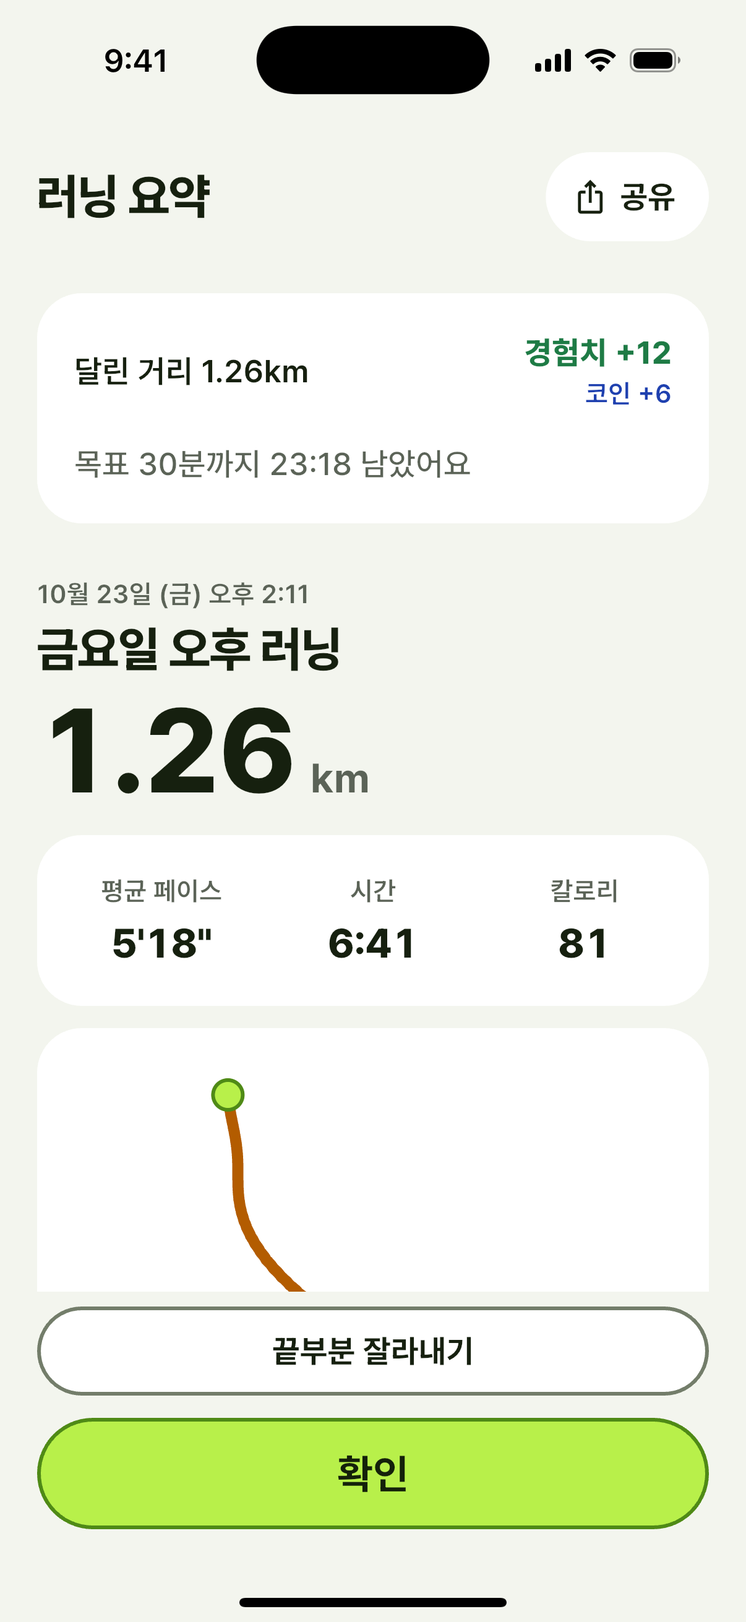
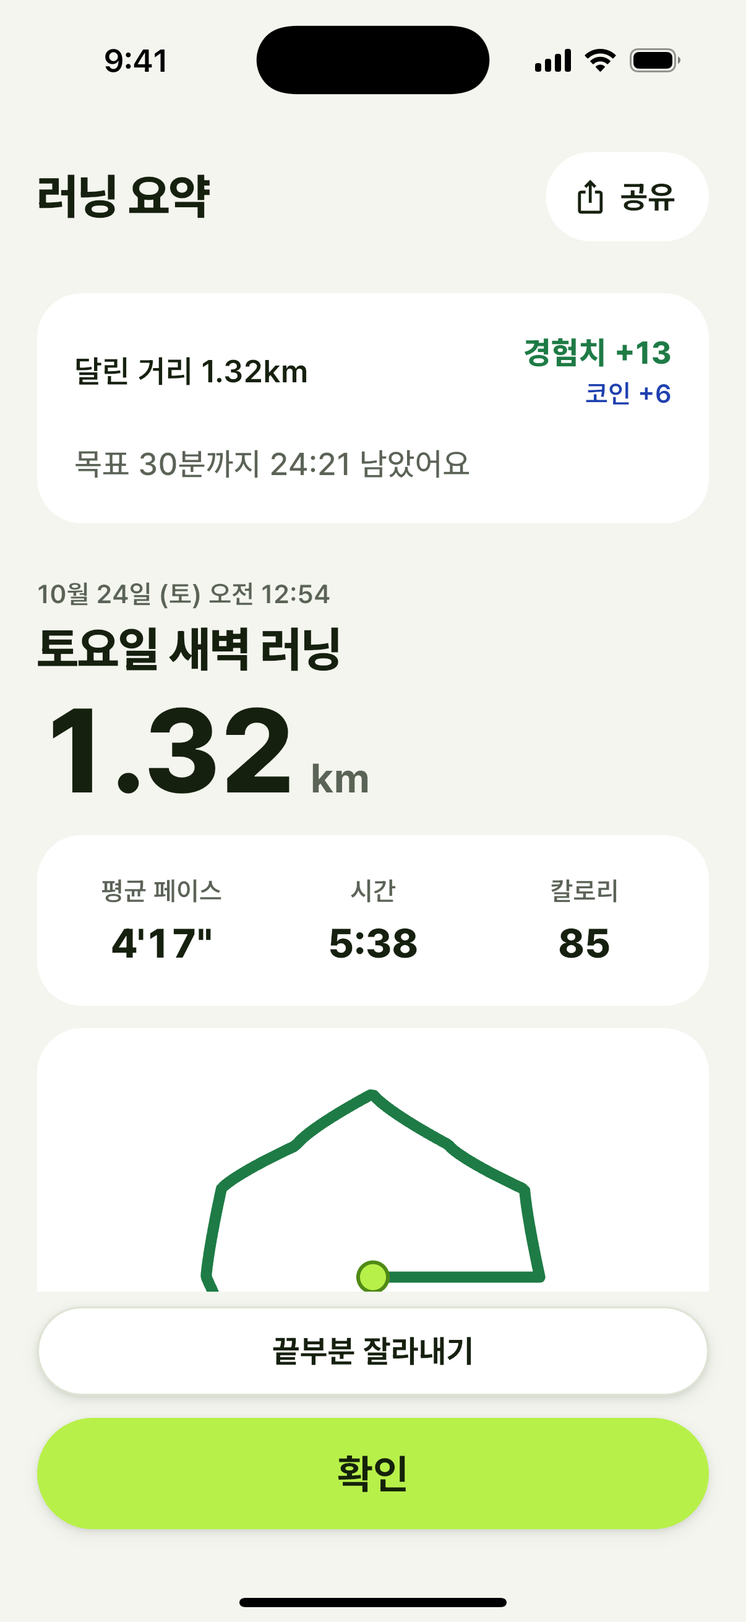
docs: 화면설계서 iPhone 컷·사본·설명 갱신, 와이어프레임 대응표, 촬영 도구 README (페이즈 8 작업 3 완료)

diff --git a/design/screens/index.html b/design/screens/index.html
@@ -412,7 +412,7 @@ dialog.zoom button { min-height: 44px; min-width: 44px; border-radius: 999px; bo
   <div class="wrap">
     <div class="cover-grid">
       <div>
-        <div class="eyebrow"><span class="tag">화면설계서</span><span class="tag">v0.3.0 베타</span><span class="tag">2026-10-23 7판</span></div>
+        <div class="eyebrow"><span class="tag">화면설계서</span><span class="tag">v0.4.0 베타</span><span class="tag">2026-10-24 8판</span></div>
         <h1>런마고치<br><span class="hl">화면설계서</span></h1>
         <p class="lede">달린 거리만큼 도트 친구가 자라는 러닝 앱. 실제 앱을 에뮬레이터에서 돌려 찍은 화면으로 모든 화면과 상태, 화면 사이 이동, 요소별 규칙을 한 장에 정리했어요.</p>
         <dl class="meta">
@@ -430,7 +430,7 @@ dialog.zoom button { min-height: 44px; min-width: 44px; border-radius: 999px; bo
       </div>
       <div class="trio" aria-label="대표 화면 세 장">
         <figure><img class="shot" src="web/06-home.png" alt="홈 화면: 레벨 9 아바타와 오늘 목표 3km, 시작 버튼" width="390" height="866"><figcaption>홈</figcaption></figure>
-        <figure><img class="shot" src="web/11-run.png" alt="러닝 중 화면: 2.03km, 평균 페이스 5분 8초" width="390" height="866"><figcaption>러닝 중</figcaption></figure>
+        <figure><img class="shot" src="web/11-run.png" alt="러닝 중 화면: 0.27km, 평균 페이스 3분 34초" width="390" height="866"><figcaption>러닝 중</figcaption></figure>
         <figure><img class="shot" src="web/16-summary-levelup.png" alt="러닝 요약 화면: 레벨 업, Lv.9에서 Lv.10" width="390" height="866"><figcaption>러닝 요약</figcaption></figure>
       </div>
     </div>
@@ -463,7 +463,7 @@ dialog.zoom button { min-height: 44px; min-width: 44px; border-radius: 999px; bo
       <div class="part-head">
         <span class="part-no">1</span>
         <h2>전체 화면 보드</h2>
-        <p>사용자가 만나는 순서로 묶었어요. Android 16(Pixel 7 에뮬레이터, 라이트)에서 찍었고, 그림을 누르면 크게 봐요. 관문 3 고칠 점(공원 산책로 무대·홈 목표 시트·화면 모드·탈것과 신호 끊김 안내)을 반영해 2026-10-23 에 다시 찍었어요. 아이템 그림은 아직 검토 전이라 캐릭터는 아이템 없이 기본 3종(병아리·젤리·도토리)을 흐름 묶음마다 나눠 찍었어요.</p>
+        <p>사용자가 만나는 순서로 묶었어요. Android 16(Pixel 7 에뮬레이터, 라이트)에서 찍었고, 그림을 누르면 크게 봐요. 관문 3 고칠 점(공원 산책로 무대·홈 목표 시트·화면 모드·탈것과 신호 끊김 안내)을 반영해 2026-10-24 에 처음부터 다시 찍었어요(버튼 그림자·몸집 고정·경로 세 단계색·알림 작은 아이콘 반영). 아이템 그림은 아직 검토 전이라 캐릭터는 아이템 없이 기본 3종(병아리·젤리·도토리)을 흐름 묶음마다 나눠 찍었어요.</p>
       </div>
       <div class="board" id="board-light"></div>
       <div class="bands">
@@ -617,23 +617,21 @@ dialog.zoom button { min-height: 44px; min-width: 44px; border-radius: 999px; bo
         <article>
           <h3>환경과 예시 데이터</h3>
           <ul>
-            <li>Android: AVD <code>runmagochi</code>(Pixel 7, Android 16 · API 36), 릴리스 빌드 0.3.0 베타. 상태바는 시스템 데모 모드로 9:41 고정. 글꼴은 앱에 번들한 서브셋(Runmagochi Sans)을 이 페이지에도 씀.</li>
-            <li>iPhone: iPhone 16 Pro 시뮬레이터(iOS 18.6), 디버그 빌드에서 디버그 띠를 끄고 찍음.</li>
-            <li>예시 데이터: 2025-11 ~ 2026-10 러닝 33회를 백업 6판 형식으로 만들어 설정 › 가져오기로 넣음(앱은 7판까지 읽음). 게임 규칙대로 경험치·코인·배지를 맞춰 Lv.9, 배지 9개, 코인 315 에서 시작.</li>
-            <li>2026-10-23 다시 찍은 러닝(작업 27 뒤 빌드): 젤리로 목표 3km, 45초 멈춤(자동 일시정지) → 초속 7m 40초(탈것 의심, 그 구간 빠짐) → 3.22km(Lv.9→10, 배지 목표 달성 30번). 2026-10-23 저녁(작업 29 뒤 빌드) 다시 찍은 것: 요약·잘라내기·공유(16·18·19)·기록 상세(25)·다크 요약(43)과 알림 36·38·39b~39e. 요약 미달(17)과 알림 39b·39d·39e 는 목표 7km 러닝을 45초 멈춤 → 초속 7m 탈것 → 위치 서비스 끄기로 자동 종료시켜 찍음(1.30km). 기록 상세 25 는 예시 백업의 10-21 러닝, 다크 요약 43 은 위 3.22km 러닝을 기록에서 열어 찍음. 위치 서비스 꺼짐(13c·39c)은 도토리로 짧게 따로. 모두 가상 GPS(여의도 둘레 고리 경로).
-            <li>2026-10-23 밤(작업 30 뒤 빌드) 라이트 경로색을 다시 찍음: 요약 긴 화면(16 긴 화면)·공유 카드(19)·기록 상세(25) 는 도토리 말랑이로 목표 3km, 1km 마다 초속 3·4·5.5m(천천히·보통·빠르게 세 단계가 다 나오게) 3.04km 가상 GPS 러닝이에요. 그래서 16 의 긴 화면 아래쪽 숫자는 맨 위 레벨 업 컷(3.22km)과 달라요. 17·18 은 한 색 경로라 그대로, 다크 화면·알림·iOS 는 다시 찍지 않았어요.</li>
-            <li>캐릭터: 아이템 없이 기본 3종을 종류·이름만 다른 예시 백업 3개(삐약이·말랑이·토리)로 나눠 찍음. 병아리 = 홈·목표 시트·아바타·다크 러닝, 젤리 = 러닝 중·일시정지·요약·공유·iPhone 아바타, 도토리 = 첫 실행·상점·위치 꺼짐·다크 홈·아바타·상점·iPhone 홈·러닝.</li>
-            <li>첫 실행·첫날 홈은 앱 데이터를 지운 상태(10-23, 캐릭터는 무작위로 꼬마 도토리가 나올 때까지 다시), 빈 상태(기록·코인 내역)·권한 안내는 10-22 새로 설치한 상태에서 찍음. 무대가 없는 화면(기록·업적·코인 내역·권한 안내)은 10-22 촬영을 그대로 둠.</li>
+            <li>Android: AVD <code>runmagochi</code>(Pixel 7, Android 16 · API 36), 릴리스 빌드 0.4.0(디버그 키 서명). 상태바는 시스템 데모 모드로 9:41 고정. 글꼴은 앱에 번들한 서브셋(Runmagochi Sans)을 이 페이지에도 씀. 종료 예고 알림(39)만 자동 종료 기준을 줄인 디버그 빌드에서 찍음(릴리스는 기준을 못 줄여요).</li>
+            <li>iPhone: iPhone 16 Pro 시뮬레이터(iOS 18.6), 디버그 빌드에서 Dart VM 서비스로 탭을 넣고 디버그 띠를 끄고 찍음. 예시 데이터는 Android 앱 DB 파일을 시뮬레이터 앱 폴더에 복사했어요. 52 는 <code>simctl location start</code> 로 고리 경로를 시속 약 14km 로 보냄.</li>
+            <li>예시 데이터: 2025-11 ~ 2026-10 러닝 33회를 백업 6판 형식으로 만든 파일(<code>tool/capture/demo-base.json</code>)을 설정 › 가져오기로 넣음(앱은 7판까지 읽음). 게임 규칙대로 경험치·코인·배지를 맞춰 Lv.9, 배지 9개, 코인 315 에서 시작. 캐릭터만 다른 3개는 <code>tool/capture/make_demo_backups.py</code> 가 만듦.</li>
+            <li>2026-10-24 러닝(고리 경로 가상 GPS, <code>tool/capture/ring_run.py</code>): 젤리, 목표 3km, 18초 멈춤(자동 일시정지·알림 38) → 초속 7.5m 40초(탈것 의심, 그 구간 빠짐·알림 39b) → 3.39km 에서 목표 달성(12·알림 37)·일시정지(14·15)·종료. 레벨 Lv.9→10, 배지 목표 달성 30번(16·18·19). 요약 미달(17)은 목표 10km 에서 1.43km. 다크 41·42 는 같은 젤리로 0.11km 짧게(저장 안 됨, 1km 미만). 기록 상세 25 는 예시 백업의 10-21 러닝, 다크 요약 43 은 위 3.39km 러닝을 기록에서 열어 찍음. 위치 서비스 꺼짐(13c·알림 39c)은 도토리로 짧게 따로.</li>
+            <li>페이스가 3~4분대로 빠르게 보이는 것은 가상 GPS 속도(초속 4~5.5m)라서예요. 경로 색 세 단계(천천히·보통·빠르게)는 속도에 사인 변화를 줘서 나오게 했어요.</li>
+            <li>캐릭터: 아이템 없이 기본 3종을 종류·이름만 다른 예시 백업 3개(삐약이·말랑이·토리)로 나눠 찍음. 병아리 = 홈·목표 시트·1km 미만 종료·기록·아바타·업적·상점·코인 내역·설정·iPhone 상점, 젤리 = 러닝 중·일시정지·요약·공유·다크 홈·러닝·아바타·iPhone 아바타, 도토리 = 첫 실행·첫날 홈·위치 꺼짐·iPhone 홈·러닝·요약.</li>
+            <li>첫 실행·첫날 홈은 앱 데이터를 지운 상태(10-24, 캐릭터는 무작위로 꼬마 도토리가 나올 때까지 다시), 빈 상태(기록·코인 내역)와 권한 안내(03~05b)도 10-24 새로 설치한 상태에서 찍음. 알림 39d·39e 는 10-23 촬영 그대로예요(작은 아이콘 반영 뒤라 새 것과 같아요).</li>
           </ul>
         </article>
         <article>
           <h3>찍으면서 본 것</h3>
           <ul>
-                        <li><span class="sev">확인 필요</span>위치 서비스를 끄면 대개 빨강 카드 하나 "위치 서비스가 꺼져 있어요. 켜면 이어서 기록해요"(13c, 알림 39c)인데, 3.2km 러닝 끝에서 끈 한 번은 카드 없이 옛 신호 끊김 말풍선과 알림 "신호가 끊겼어요" 가 떴어요(간헐).</li>
-                        <li><span class="sev">고쳐짐</span>라이트 경로색의 보통(#126812)과 빠르게(#14301A)가 둘 다 어두운 초록이라 구분이 약했던 것을 연두 #659325 · 초록 #066B0E · 청록 #003647 로 나눴어요(작업 30). 경로가 보이는 라이트 화면을 다시 찍었고 다크·알림·iOS 는 그대로예요.</li>
-            <li><span class="sev">고쳐짐</span>알림 작은 아이콘이 빈 동그라미였던 것을 병아리 실루엣으로 바꿨어요(작업 29). 36·38·39b~39e 를 다시 찍었고, 목표 달성(37)과 종료 예고(39)는 아직 이전 아이콘이에요.</li>
+                        <li><span class="sev">확인 필요</span>위치 서비스를 끈 상태(13c)를 처음 찍을 때 일시정지·길게 눌러 종료 버튼에 진한 회색 테두리가 보인 컷이 한 번 있었어요. 같은 화면을 다시 찍으니 다른 컷처럼 얇은 선뿐이었어요(일시적인 포커스 표시로 보여요). 실기기에서 다시 확인해 보세요.</li>
+            <li><span class="sev">고쳐짐</span>경로색(작업 30)·버튼 그림자(작업 31)·몸집 고정(작업 32)·알림 작은 아이콘(작업 29)이 모두 이번 컷에 들어갔어요. 알림 37·39 도 새 아이콘으로 다시 찍었어요.</li>
             <li><span class="sev">관찰</span>공유 카드는 시스템 공유 창 미리보기에서 잘라냈어요. 오른쪽 아래 연필은 Android 의 편집 버튼이에요. 알림은 알림창에서 앱 카드만 잘라냈어요.</li>
-            <li><span class="sev">고쳐짐</span>10-22 에 적은 목표 달성 알림 남음, 잘라내기 슬라이더 연두 채움, 카운트다운 중 탭바, 위치 영구 거부 안내(05b), 첫 위치 튐 직선은 고쳐진 것을 확인했어요.</li>
           </ul>
         </article>
       </div>
@@ -674,7 +672,7 @@ dialog.zoom button { min-height: 44px; min-width: 44px; border-radius: 999px; bo
     ]},
     { k: 'C', t: '러닝 중·일시정지', reqs: ['F1', 'F2', 'F4', 'F6', 'F6-2', 'F8', 'F14'], items: [
       ['11', '11-run', '러닝 중', '젤리 · 길이 소실점 쪽으로 흐름'],
-      ['12', '12-run-goal', '러닝 중 · 목표 달성', '젤리 · 3.01km, 진동 + "목표 달성!"'],
+      ['12', '12-run-goal', '러닝 중 · 목표 달성', '젤리 · 3.29km, 진동 + "목표 달성!"'],
       ['13', '13-run-autopause', '자동 일시정지', '젤리 · 재개 · 일시정지 두 버튼'],
       ['13b', '13b-run-vehicle', '탈것 의심', '젤리 · "혹시 뭘 타셨나요?" 이 구간은 뺌'],
       ['13c', '13c-run-signal-lost', '위치 서비스 꺼짐', '도토리 · 빨강 카드 하나 "위치 서비스가 꺼져 있어요"'],
@@ -683,24 +681,24 @@ dialog.zoom button { min-height: 44px; min-width: 44px; border-radius: 999px; bo
     ]},
     { k: 'D', t: '러닝 요약', reqs: ['F3', 'F6', 'F7', 'F16', 'F19', 'F21'], items: [
       ['16', '16-summary-levelup', '요약 · 레벨 업', '젤리 · Lv.9→10 · 목표 달성 · 새 배지', '긴 화면'],
-      ['17', '17-summary-missed', '요약 · 목표 미달', '신호 끊김 자동 종료 · 7km까지 5.70km'],
+      ['17', '17-summary-missed', '요약 · 목표 미달', '목표 10km · 1.43km 달림, 7km 아닌 목표 미달 줄'],
       ['18', '18-summary-trim', '끝부분 잘라내기', '끝 시각 당기기 시트'],
       ['19', '19-share-card-crop', '공유 카드', '젤리 · 1080×1350 카드 · 공유 창 미리보기'],
     ]},
-    { k: 'E', t: '기록', reqs: ['F5', 'F5-2', 'F16'], note: '기록 화면에는 무대가 없어 10-22 촬영을 그대로 둬요.', items: [
-      ['20', '20-history-week', '기록 · 주', '19.86km · 5회'],
+    { k: 'E', t: '기록', reqs: ['F5', 'F5-2', 'F16'], items: [
+      ['20', '20-history-week', '기록 · 주', '14.71km · 3회'],
       ['21', '21-history-month', '기록 · 월', '10월 일별 막대'],
       ['22', '22-history-year', '기록 · 년', '2026 월별 막대'],
-      ['23', '23-history-all', '기록 · 전체', '169.23km · 35회'],
+      ['23', '23-history-all', '기록 · 전체', '164.07km · 33회'],
       ['24', '24-history-empty', '기록 · 빈 상태', '아직 기록이 없어요', '빈 상태'],
       ['25', '25-run-detail', '기록 상세', '같은 몸통 + 기록 삭제', '긴 화면'],
     ]},
     { k: 'F', t: '아바타·업적', reqs: ['F7', 'F18', 'F19'], items: [
       ['26', '26-avatar', '아바타', '병아리 · 2단계 · Lv.9', '긴 화면'],
-      ['27', '27-achievements', '업적', '개인 기록 · 배지 10/12', '긴 화면'],
+      ['27', '27-achievements', '업적', '개인 기록 · 배지 9/12', '긴 화면'],
     ]},
     { k: 'G', t: '상점·코인', reqs: ['F9', 'F10', 'F11'], note: '상점은 고른 아이템을 위 무대 캐릭터에 입혀 보여 줘요. 아이템 그림은 검토 전이라 아이템 목록 아래만 잘라 실었고, 미리보기·구매 확인·코인 부족 상태는 이번 판에서 뺐어요.', items: [
-      ['28', '28-shop', '상점 · 아이템 목록', '도토리 · 무대 위는 잘라냄'],
+      ['28', '28-shop', '상점 · 아이템 목록', '병아리 · 무대 위는 잘라냄'],
       ['32', '32-coins', '코인 내역', '지급·사용 목록'],
       ['33', '33-coins-empty', '코인 내역 · 빈 상태', '달리면 코인이 쌓여요', '빈 상태'],
     ]},
@@ -710,7 +708,7 @@ dialog.zoom button { min-height: 44px; min-width: 44px; border-radius: 999px; bo
       ['34c', '34c-settings-theme-light', '화면 모드 · 라이트', '기기는 다크, 앱은 라이트'],
       ['35', '35-settings-import', '백업 가져오기 확인', '되돌릴 수 없어요'],
     ]},
-    { k: 'I', t: '알림', reqs: ['F20', 'F4'], wide: true, note: '알림창에서 앱 알림 카드만 잘라냈어요. 36~39 는 10-22, 39b~39e 는 10-23 촬영이에요(39c 는 작업 27 뒤).', items: [
+    { k: 'I', t: '알림', reqs: ['F20', 'F4'], wide: true, note: '알림창에서 앱 알림 카드만 잘라냈어요. 36~39c 는 10-24, 39d·39e 는 10-23 촬영이에요(모두 새 작은 아이콘).', items: [
       ['36', '36-notif-run', '러닝 알림', '거리 · 목표까지 남은 양 · 일시정지'],
       ['37', '37-notif-goal', '목표 달성 알림', '3km 목표를 채웠어요'],
       ['38', '38-notif-autopause', '자동 일시정지 알림', '재개 · 일시정지'],
@@ -721,20 +719,20 @@ dialog.zoom button { min-height: 44px; min-width: 44px; border-radius: 999px; bo
       ['39e', '39e-notif-autoend', '자동 종료 알림', '한참 못 달려서 러닝을 마쳤어요'],
     ]},
   ];
-  const DARK = { k: 'N', t: '다크 모드 · 대표 화면', reqs: [], note: '라이트 보드와 같은 예시 데이터(Lv.9 · 코인 315)를 캐릭터만 바꿔 찍었어요. 홈·아바타·상점은 도토리, 러닝 중·자동 일시정지는 병아리. 요약·기록·업적은 무대가 없거나 캐릭터가 안 나와 그대로예요.', items: [
-    ['40', '40-dark-home', '홈', '도토리 · 오늘 목표 7km'],
-    ['41', '41-dark-run', '러닝 중', '병아리 · 얇은 윤곽 · 어두운 흙길'],
-    ['42', '42-dark-autopause', '자동 일시정지', '병아리 · 밝은 판 재개'],
+  const DARK = { k: 'N', t: '다크 모드 · 대표 화면', reqs: [], note: '라이트 보드와 같은 예시 데이터에서 앱 화면 모드만 다크로 바꿔 찍었어요. 홈·러닝 중·자동 일시정지·아바타는 젤리예요. 코인은 러닝 뒤라 553 이고 레벨은 10 이에요.', items: [
+    ['40', '40-dark-home', '홈', '젤리 · Lv.10 · 오늘 목표 10km'],
+    ['41', '41-dark-run', '러닝 중', '젤리 · 얇은 윤곽 · 어두운 흙길'],
+    ['42', '42-dark-autopause', '자동 일시정지', '젤리 · 밝은 판 재개'],
     ['43', '43-dark-summary', '요약(기록에서)', '목표 3km 달성'],
-    ['44', '44-dark-history', '기록 · 주', '19.86km'],
-    ['45', '45-dark-avatar', '아바타', '도토리 · Lv.9 · 얇은 윤곽'],
+    ['44', '44-dark-history', '기록 · 주', '19.53km'],
+    ['45', '45-dark-avatar', '아바타', '젤리 · Lv.10 · 3단계 · 얇은 윤곽'],
     ['46', '46-dark-achievements', '업적', '배지 10/12'],
-    ['47', '47-dark-shop', '상점 · 소품 목록', '도토리 · 무대 위는 잘라냄'],
+    ['47', '47-dark-shop', '상점 · 소품 목록', '젤리 · 무대 위는 잘라냄'],
   ]};
   const IOS = { k: 'P', t: 'iPhone 16 Pro · iOS 18.6', reqs: [], items: [
     ['50', '50-ios-home', '홈', '도토리 · 오늘 목표 30분'],
     ['51', '51-ios-run', '러닝 중', '도토리 · 0.34km'],
-    ['52', '52-ios-summary', '요약 · 목표 미달', '1.26km · 30분까지 23:18'],
+    ['52', '52-ios-summary', '요약 · 목표 미달', '1.32km · 30분까지 24:21'],
     ['53', '53-ios-avatar', '아바타', '젤리 · Lv.9'],
     ['54', '54-ios-shop', '상점 · 아이템 목록', '병아리 · 무대 위는 잘라냄'],
   ]};

diff --git a/tool/capture/vm_ui.dart b/tool/capture/vm_ui.dart
@@ -1,0 +1,112 @@
+// iOS 시뮬레이터(flutter run 없이 simctl 로 띄운 디버그 앱)를 Dart VM 서비스로 조작한다.
+// simctl 에는 탭 명령이 없어서, 앱 안으로 Flutter 포인터 이벤트를 직접 넣는다.
+//
+// 사용: dart tool/capture/vm_ui.dart <VM 서비스 주소> <명령> [인자]
+//   banner                  DEBUG 띠를 끈다
+//   tap X Y                 논리 좌표(iPhone 16 Pro: 402×874)를 누른다
+//   hold X Y MS             MS 밀리초 동안 누른다
+//   swipe X1 Y1 X2 Y2 MS    끈다
+//   text                    화면 맨 위 글자 확인용으로 위젯 트리 일부를 찍는다(생략 가능)
+// 주소는 `xcrun simctl spawn <기기> log show --last 3m --predicate 'eventMessage CONTAINS "Dart VM service"'` 에서 얻는다.
+import 'dart:async';
+import 'dart:convert';
+import 'dart:io';
+
+late WebSocket _ws;
+int _id = 0;
+final _pending = <int, Completer<Map<String, dynamic>>>{};
+
+Future<Map<String, dynamic>> call(String method, [Map<String, dynamic>? params]) {
+  final id = ++_id;
+  final c = Completer<Map<String, dynamic>>();
+  _pending[id] = c;
+  _ws.add(jsonEncode({'jsonrpc': '2.0', 'id': id, 'method': method, 'params': params ?? {}}));
+  return c.future;
+}
+
+Future<void> main(List<String> a) async {
+  final url = a[0].replaceFirst('http://', 'ws://') + 'ws';
+  _ws = await WebSocket.connect(url);
+  _ws.listen((m) {
+    final j = jsonDecode(m as String) as Map<String, dynamic>;
+    final c = _pending.remove(j['id']);
+    if (c != null) c.complete(j);
+  });
+  final vm = (await call('getVM'))['result'] as Map<String, dynamic>;
+  final isolates = (vm['isolates'] as List).cast<Map<String, dynamic>>();
+  final iso = isolates.firstWhere((i) => i['name'] == 'main', orElse: () => isolates.first)['id'] as String;
+  final isolate = (await call('getIsolate', {'isolateId': iso}))['result'] as Map<String, dynamic>;
+  String libId(String uri) => (isolate['libraries'] as List)
+      .cast<Map<String, dynamic>>()
+      .firstWhere((l) => l['uri'] == uri)['id'] as String;
+  final eventsLib = libId('package:flutter/src/gestures/events.dart');
+  final bindingLib = libId('package:flutter/src/gestures/binding.dart');
+
+  // 이벤트 객체는 events.dart 쪽에서 만들고(Offset·이벤트 클래스가 보이는 곳),
+  // binding.dart 쪽에서 GestureBinding 에 넘긴다(두 곳에 다 보이는 이름이 없어서 객체 id 로 잇는다).
+  Future<void> send(String kind, double x, double y) async {
+    final made = await call('evaluate', {
+      'isolateId': iso,
+      'targetId': eventsLib,
+      'expression': '$kind(pointer: 7, position: Offset($x, $y))',
+    });
+    if (made['error'] != null) {
+      stderr.writeln(jsonEncode(made['error']));
+      exit(1);
+    }
+    final id = (made['result'] as Map<String, dynamic>)['id'] as String;
+    final r = await call('evaluate', {
+      'isolateId': iso,
+      'targetId': bindingLib,
+      'expression': 'GestureBinding.instance.handlePointerEvent(e as PointerEvent)',
+      'scope': {'e': id},
+    });
+    if (r['error'] != null) {
+      stderr.writeln(jsonEncode(r['error']));
+      exit(1);
+    }
+  }
+
+  Future<void> eval(String kindXY) async {
+    final p = kindXY.split('|');
+    await send(p[0], double.parse(p[1]), double.parse(p[2]));
+  }
+
+  String ev(String kind, double x, double y) => '$kind|$x|$y';
+
+  switch (a[1]) {
+    case 'banner':
+      await call('ext.flutter.debugAllowBanner', {'isolateId': iso, 'enabled': 'false'});
+    case 'tap':
+      final x = double.parse(a[2]), y = double.parse(a[3]);
+      await eval(ev('PointerAddedEvent', x, y));
+      await eval(ev('PointerDownEvent', x, y));
+      await Future<void>.delayed(const Duration(milliseconds: 80));
+      await eval(ev('PointerUpEvent', x, y));
+      await eval(ev('PointerRemovedEvent', x, y));
+    case 'hold':
+      final x = double.parse(a[2]), y = double.parse(a[3]);
+      await eval(ev('PointerAddedEvent', x, y));
+      await eval(ev('PointerDownEvent', x, y));
+      await Future<void>.delayed(Duration(milliseconds: int.parse(a[4])));
+      await eval(ev('PointerUpEvent', x, y));
+      await eval(ev('PointerRemovedEvent', x, y));
+    case 'swipe':
+      final x1 = double.parse(a[2]), y1 = double.parse(a[3]);
+      final x2 = double.parse(a[4]), y2 = double.parse(a[5]);
+      final ms = int.parse(a[6]);
+      const steps = 20;
+      await eval(ev('PointerAddedEvent', x1, y1));
+      await eval(ev('PointerDownEvent', x1, y1));
+      for (var i = 1; i <= steps; i++) {
+        await Future<void>.delayed(Duration(milliseconds: ms ~/ steps));
+        await eval(ev('PointerMoveEvent', x1 + (x2 - x1) * i / steps, y1 + (y2 - y1) * i / steps));
+      }
+      await eval(ev('PointerUpEvent', x2, y2));
+      await eval(ev('PointerRemovedEvent', x2, y2));
+    default:
+      stderr.writeln('알 수 없는 명령 ${a[1]}');
+      exit(2);
+  }
+  await _ws.close();
+}

diff --git a/docs/plans/phase-8.md b/docs/plans/phase-8.md
@@ -45,12 +45,12 @@
   - 내용: S1~S5 를 현재 앱 기준으로 다시 쓰고(목표 시트·탈것·신호 끊김·권한 거부·1km 미만 종료 같은 예외 흐름 포함), 시나리오마다 mermaid flowchart 한 장. 전체 화면 이동도(온보딩·권한·홈 4탭·러닝·요약·설정·공유) 현재 라우팅과 맞춘다
   - 확인: 흐름의 화면 이름이 `design/screens/` 컷 이름과 대응한다. mermaid 문법 검사
 
-- [ ] 3. 화면설계서·와이어프레임 최종화
+- [x] 3. 화면설계서·와이어프레임 최종화
   - 파일: `design/screens/`(재촬영한 PNG·`web/`·`index.html`), `design/wireframes/README.md`, `docs/screens.md`
   - 내용: 알려진 낡은 컷(HANDOFF "다음 할 일" 3번: 캐릭터 2~4단계 모양, 알림 37·39, iOS 52, 버튼 테두리 제거 전체)을 에뮬레이터·시뮬레이터에서 다시 찍는다. 와이어프레임은 "초기 콘티"로 표시하고 콘티 10개와 최종 컷의 대응표를 `design/wireframes/README.md` 에 둔다. `docs/screens.md` 컷 목록을 실제 파일과 맞춘다. 화면설계서 아티팩트를 갱신해 새 판으로 올린다
   - 확인: `ls design/screens` 와 `docs/screens.md` 컷 목록이 일치(누락·고아 파일 0). 컷 수는 기준값 표
   - 주의: 사용자가 정한 순서(HANDOFF 3번)는 "아이템 에셋 검토 때 한꺼번에"였다. 이 페이즈에서 재촬영하면 아이템 에셋을 나중에 바꿀 때 상점·꾸미기 컷만 다시 찍는다. **승인 때 확인**
-
+  - 결과(2026-10-24, 사용자 승인으로 전체 재촬영): Android 라이트 51·다크 8·iPhone 5 = 64컷 + 390px 사본 64 + 무대 조각 2. 39d·39e 는 10-23 컷 유지(작은 아이콘 반영 뒤 촬영이라 새 것과 같음). `tool/capture/`(cap·ring_run·vm_ui·make_web 등)와 `design/screens/index.html` 숫자·설명을 맞춤. 와이어프레임은 초기 콘티로 표시하고 대응표를 `design/wireframes/README.md` 에 둠. 컷 목록 일치 검사: index.html 참조 이름 ↔ 파일 이름 대조(누락·고아 0). 주의: 에뮬레이터 기준 페이스가 3~4분대(가상 GPS 속도), iPhone 52 경로는 한 색, 앱 결함 후보는 index.html "찍으면서 본 것"(13c 버튼 테두리 일시 표시)
 - [x] 4. UI 시안·디자인 시스템 정리
   - 파일: `docs/design/design-system.md`, `docs/design/tokens.json`, `design/mockups/README.md`
   - 내용: 토큰 값이 `lib/core/theme.dart`·`lib/core/stage` 실제 값과 같은지 대조해 고친다. 페이즈 6-2 과정(후보 3방향×2트랙 → 비교 → 선택 → 관문 3 수정)을 한 페이지 "디자인 의사결정 기록"으로 쓰고 비교·시안·디자인 시스템 아티팩트 링크를 모은다
@@ -111,7 +111,7 @@
 - [ ] 문서의 숫자(테스트 수·테이블 수·결정 수·컷 수)가 기준값 표와 같다
 
 ### E2E (에뮬레이터, `/e2e` 가 확인)
-- [ ] 화면 재촬영(작업 3) 중 앱이 정상 실행되고, `design/screens/` 목록의 화면을 모두 조작해 찍을 수 있다(누락 컷 0)
+- [x] 화면 재촬영(작업 3) 중 앱이 정상 실행되고, `design/screens/` 목록의 화면을 모두 조작해 찍을 수 있다(누락 컷 0)
 - [ ] README 러닝 GIF 녹화(작업 9)에서 가상 러닝 시작→기록→요약까지 진행된다
 
 ### 사람 확인

diff --git a/tool/capture/README.md b/tool/capture/README.md
@@ -1,0 +1,36 @@
+# 화면설계서 촬영 도구
+
+`design/screens/` 컷을 다시 찍을 때 쓰는 스크립트. 2026-10-24 페이즈 8 작업 3 에서 만들었다. 앱 코드(`lib/`)는 건드리지 않는다.
+
+| 파일 | 하는 일 |
+| --- | --- |
+| `cap`, `cap.py` | Android 에뮬레이터 조작·촬영: `shot`(저장), `tap`(화면 글자로 누르기), `swipe`, `hold`(길게 누르기), `long`(끌어내리며 찍어 이어 붙임), `importdemo`(설정 › 가져오기), `crop`, `web` |
+| `demo_mode.sh` | 상태 표시줄을 9:41·와이파이·배터리만 남김. `demo_mode.sh off` 로 해제. 알림창을 열었다 닫은 뒤에는 다시 실행 |
+| `make_demo_backups.py` | 예시 백업(`demo-base.json`: 러닝 33회, Lv.9, 코인 315, 배지 9)을 병아리·젤리·도토리 3개로 만든다 |
+| `ring_run.py` | 에뮬레이터 가상 GPS 로 고리 경로를 1초마다 보냄. 속도 변화·멈춤·탈것 흉내·신호 끊김 옵션 |
+| `vm_ui.dart` | iOS 시뮬레이터 앱에 Dart VM 서비스로 탭·길게 누르기·끌기를 넣음(`flutter run --debug` 로 띄운 앱) |
+| `make_web.py` | `design/screens/*.png` → `web/` 390px 사본과 무대 조각 |
+
+## 준비
+
+```
+python3 -m venv .venv && .venv/bin/pip install pillow numpy   # 저장소 .venv (fonttools 와 같이 씀)
+fvm flutter build apk --release                                # 릴리스(DEBUG 띠 없음)
+adb install -r build/app/outputs/flutter-apk/app-release.apk
+tool/capture/demo_mode.sh
+python3 tool/capture/make_demo_backups.py /tmp && adb push /tmp/demo-*.json /sdcard/Download/
+```
+
+## 순서 요약
+
+1. 새로 설치(`pm clear`)한 상태에서 첫 실행·권한 컷(01~05b, 10, 07), 설정 › 가져오기로 예시 데이터를 넣고 홈·목표 시트·기록·아바타·업적·상점·설정 컷.
+2. `ring_run.py` 로 러닝(메모: `--stop-at` 자동 일시정지, `--burst-*` 탈것 의심, `--silent-after` 신호 끊김)을 돌리며 `cap shot`, 알림창 컷은 `cmd statusbar expand-notifications` 뒤 `cap shot` → `cap crop`.
+3. 긴 화면은 `cap long 이름 --footer N`(고정 버튼·탭바 높이). 다크는 설정 › 다크 로 바꿔 같은 컷.
+4. 종료 예고 알림(39)은 릴리스가 자동 종료 기준을 못 줄이므로 `--dart-define=RUN_STILL_END_SEC=40 --dart-define=RUN_END_WARNING_SEC=30` 디버그 빌드로.
+5. iPhone: `flutter build ios --simulator --debug` → `simctl install` → 앱 폴더(`simctl get_app_container … data`)의 `Documents/runmagochi.sqlite` 에 Android 앱 DB 를 복사 → `flutter run -d <기기> --debug` 로 띄워 VM 서비스 주소를 얻고 `dart tool/capture/vm_ui.dart <주소> banner|tap|hold|swipe` + `simctl io screenshot`. 위치는 `simctl location start --speed=4 <위도,경도 …>`.
+6. `make_web.py` 로 사본을 만들고 `design/screens/index.html` 의 컷 설명 숫자를 맞춘다.
+
+## 알려진 한계
+
+- 종료 예고 39d·39e 는 이번에 다시 찍지 못해 10-23 컷을 그대로 둠(작은 아이콘은 반영된 뒤 촬영).
+- 앱 DB 컬럼은 snake_case(`hat_item_id`)다. 시스템 알림창 안내 문구는 기기 언어(영어)로 나온다.

diff --git a/HANDOFF.md b/HANDOFF.md
@@ -5,7 +5,9 @@
 ## 현재 상태
 
 - **페이즈 8 진행 중** (`docs/plans/phase-8.md`, 상태 `실행`, 사용자 승인 2026-10-23). 문서 작업 완료: 0 기준값, 1 PRD(`docs/product.md`), 2 시나리오·흐름(`docs/user-flows.md`), 4 디자인 의사결정(`docs/design/design-process.md`), 5 아키텍처, 6 ERD(`docs/data-model.md` + `test/docs/data_model_doc_test.dart`), 7 시퀀스(`docs/sequences.md`), 8 결정 색인(`docs/decisions/README.md`)·개발 기록(`docs/dev-log.md`), 10 플레이북(`docs/playbook.md`, 스킬 `.claude/skills/playbook`). 현황표 `docs/portfolio.md`
-  - 남은 것: **3 화면설계서 재촬영**(컷 64개, 에뮬레이터 필요), 9 README 스크린샷·GIF, 11 포트폴리오 아티팩트, 12 정합성 점검·문서 지도. 에뮬레이터 `runmagochi` 는 켜져 있고 디버그 APK 설치됨(기존 데이터: 말랑이 Lv.1)
+  - 작업 3 완료(2026-10-24): 화면설계서 컷 64개 전체 재촬영·390px 사본·`index.html` 설명 갱신, 촬영 도구 `tool/capture/`([README](tool/capture/README.md)), 와이어프레임 대응표. **화면설계서 아티팩트(https://claude.ai/artifact/456dWcNyLn1vbUsjV9FLVc)는 아직 이전 판** — 새 `design/screens/` 로 다시 게시(작업 11 전). 39d·39e 알림 컷은 10-23 것 유지
+  - 남은 것: 9 README 스크린샷·GIF(에뮬레이터 `runmagochi` 는 켜져 있음, 디버그 APK 설치됨·예시 데이터 젤리 Lv.9), 11 포트폴리오 아티팩트(화면설계서 새 판 포함), 12 정합성 점검·문서 지도
+  - 촬영 중 본 것: 13c(위치 꺼짐) 첫 컷에서 일시정지·종료 버튼에 진한 테두리가 한 번 보임(다시 찍으면 얇은 선, 일시적 포커스 표시로 추정). 가상 GPS 라 페이스가 3~4분대. 릴리스 빌드는 자동 종료 기준 dart-define 을 무시해 종료 예고 알림은 디버그 빌드로 찍음
   - mermaid 문법 검사: 스크래치패드 `mm/check.py`(mermaid-cli, Chrome 사용). 새 문서의 다이어그램 14개 통과
   - 시퀀스를 쓰며 낡은 설명(빠른 이동 30km 자동 종료는 결정 0033 으로 탈것 의심으로 대체)을 고침. 문서 숫자는 코드에서 읽어 쓸 것
 - **페이즈 7 완료** (`docs/plans/phase-7.md`, 작업 1~5, 자동 확인 통과). 실기기 사람 확인은 **페이즈 9 실기기 테스트와 개선**으로 분리(결정 0035). 순서 7 → 8 산출물 정리 → 9 실기기 테스트·개선 → 10 출시(1.0). 다음은 `/phase 8`(계획부터). 실측 안내 `docs/field-test.md`. Android 실기기는 가족 폰을 빌려 로드맵 기준 그대로 실측(사용자 결정 2026-10-23)

diff --git a/design/wireframes/README.md b/design/wireframes/README.md
@@ -1,6 +1,6 @@
 # 와이어프레임
 
-> MVP 화면 10개의 콘티. 화면 역할과 이동 흐름은 [화면설계](../../docs/screens.md)에 있다.
+> **초기 콘티**(페이즈 0~2.5, 말랑 클레이 이전)로, MVP 화면 10개의 구성을 정한 저충실도 그림이다. 지금 앱 모습은 최종 화면 컷 `design/screens/`(화면설계서)에 있고, 둘의 대응은 아래 표다. 화면 역할과 이동 흐름은 [화면설계](../../docs/screens.md)에 있다.
 
 - `*.html` — 원본. 브라우저로 열면 하단 탭과 버튼으로 화면 사이를 이동할 수 있다.
 - `png/` — 화면 이미지 (390×844, 2배 해상도).
@@ -15,3 +15,21 @@
 | 6 보상 | 7 아바타 | 8 상점 | 9 기록 | 10 업적 |
 | --- | --- | --- | --- | --- |
 | ![](png/06-reward.png) | ![](png/07-avatar.png) | ![](png/08-shop.png) | ![](png/09-activity.png) | ![](png/10-badges.png) |
+
+## 콘티와 최종 화면 컷 대응
+
+최종 컷은 `design/screens/<번호>-<이름>.png`(2026-10-24 8판)이다. 콘티와 달라진 점만 적었다.
+
+| 콘티 | 최종 컷 | 달라진 점 |
+| --- | --- | --- |
+| 1 홈 | 06 홈, 07 첫날 | 코인 칩·설정, 사각 무대, `오늘 목표` 한 줄 |
+| 2 목표 | 08 거리 시트, 09 시간 시트 | 직접 입력 대신 값 칩 + 휠, 시간 목표 추가 |
+| 3 러닝 중 | 11 러닝 중, 12 목표 달성, 13~13c 자동 일시정지·탈것·위치 꺼짐 | 목표 진행 막대, 상태별 말풍선·카드 |
+| 4 일시정지 | 14 일시정지, 15 길게 눌러 종료 | 지도 없음(경로는 요약에서만) |
+| 5 러닝 요약 | 16 레벨 업, 17 목표 미달, 18 잘라내기, 19 공유 카드 | 페이스별 경로색, 구간 막대, 배지 줄 |
+| 6 보상 | 16 요약 안의 경험치·코인·배지 줄 | 별도 화면 없이 요약에 합침 |
+| 7 아바타 | 26 아바타, 27 업적 | 성장 단계 4칸, 업적 입구 |
+| 8 상점 | 28 상점, 32 코인 내역 | 모자·소품 분할, 코인 내역 화면 |
+| 9 기록 | 20~23 주·월·년·전체, 24 빈 상태, 25 상세 | 주간만 → 4기간 |
+| 10 업적 | 27 업적 | 배지 12개, 다음 배지 진행 |
+| (없음) | 01~05b 첫 실행·권한, 34~35 설정, 36~39e 알림, 40~47 다크, 50~54 iPhone | 콘티 뒤에 더해진 화면 |

diff --git a/docs/portfolio.md b/docs/portfolio.md
@@ -6,8 +6,8 @@
 | --- | --- | --- | --- | --- |
 | 1 | 요구사항 정의서(PRD) | `docs/product.md` | 있음 (작업 1 완료: 상태·페이즈·결정 열, 범위 밖, 가정과 위험) | 1 |
 | 2 | 유저 시나리오·사용자 흐름 | `docs/user-flows.md` | 있음 (작업 2 완료: S1~S6, 흐름도 6개) | 2 |
-| 3 | 화면설계서 | `design/screens/` (64컷), 아티팩트 | 낡음: 캐릭터 2~4단계·알림 37/39·iOS 52·버튼 테두리 | 3 |
-| 4 | 와이어프레임 | `design/wireframes/` | 있음, 초기 콘티 표시·대응표 없음 | 3 |
+| 3 | 화면설계서 | `design/screens/` (64컷, 8판), 아티팩트 | 있음 (작업 3 완료: 전체 재촬영, 아티팩트 게시는 작업 11 전에 새 판으로) | 3 |
+| 4 | 와이어프레임 | `design/wireframes/` | 있음 (작업 3 완료: 초기 콘티 표시, 최종 컷 대응표) | 3 |
 | 5 | UI 시안·디자인 시스템 | `docs/design/`, `design/mockups/` | 있음 (작업 4 완료: `docs/design/design-process.md`, 토큰은 theme_test 가 코드와 대조) | 4 |
 | 6 | 시스템 아키텍처 | `docs/architecture.md` | 있음 (작업 5 완료: 모듈 지도·플랫폼 경계·주입, 패키지 표 보강) | 5 |
 | 7 | 데이터 모델 ERD | `docs/data-model.md` | 있음 (작업 6 완료, `test/docs/data_model_doc_test.dart` 가 코드와 대조) | 6 |

diff --git a/docs/screens.md b/docs/screens.md
@@ -4,7 +4,7 @@
 
 와이어프레임은 화면 구성을 정하는 콘티다. 실제 UI 디자인은 페이즈 6 에서 연두 무드보드 + 사각 무대(결정 0029)로 입혔다. 화면별 모양은 아래 "화면 디자인", 규칙은 [디자인 시스템](design/design-system.md), 구현 스크린샷은 `design/mockups/phase-6-screens/`.
 
-**화면설계서**: [Claude 아티팩트](https://claude.ai/artifact/456dWcNyLn1vbUsjV9FLVc) (2026-10-22, 작업 19). 실제 앱 화면 52장(Android 라이트 39·다크 8, iPhone 5)으로 만든 전체 화면 보드·흐름도·화면별 상세·와이어프레임·부품 모음. 원본은 `design/screens/`(스크린샷 `<번호>-<이름>.png`, 게시용 390px 사본 `web/`, 페이지 `index.html`).
+**화면설계서**: [Claude 아티팩트](https://claude.ai/artifact/456dWcNyLn1vbUsjV9FLVc) (2026-10-22 작업 19, 2026-10-24 8판으로 컷 전체를 다시 찍음, 페이즈 8 작업 3). 실제 앱 화면 컷 64장(Android 라이트 51·다크 8, iPhone 5)으로 만든 전체 화면 보드·흐름도·화면별 상세·와이어프레임·부품 모음. 원본은 `design/screens/`(스크린샷 `<번호>-<이름>.png`, 게시용 390px 사본 `web/`, 페이지 `index.html`). 촬영·사본 만들기는 `tool/capture/`([README](../tool/capture/README.md)).
 
 ## MVP 화면
 
